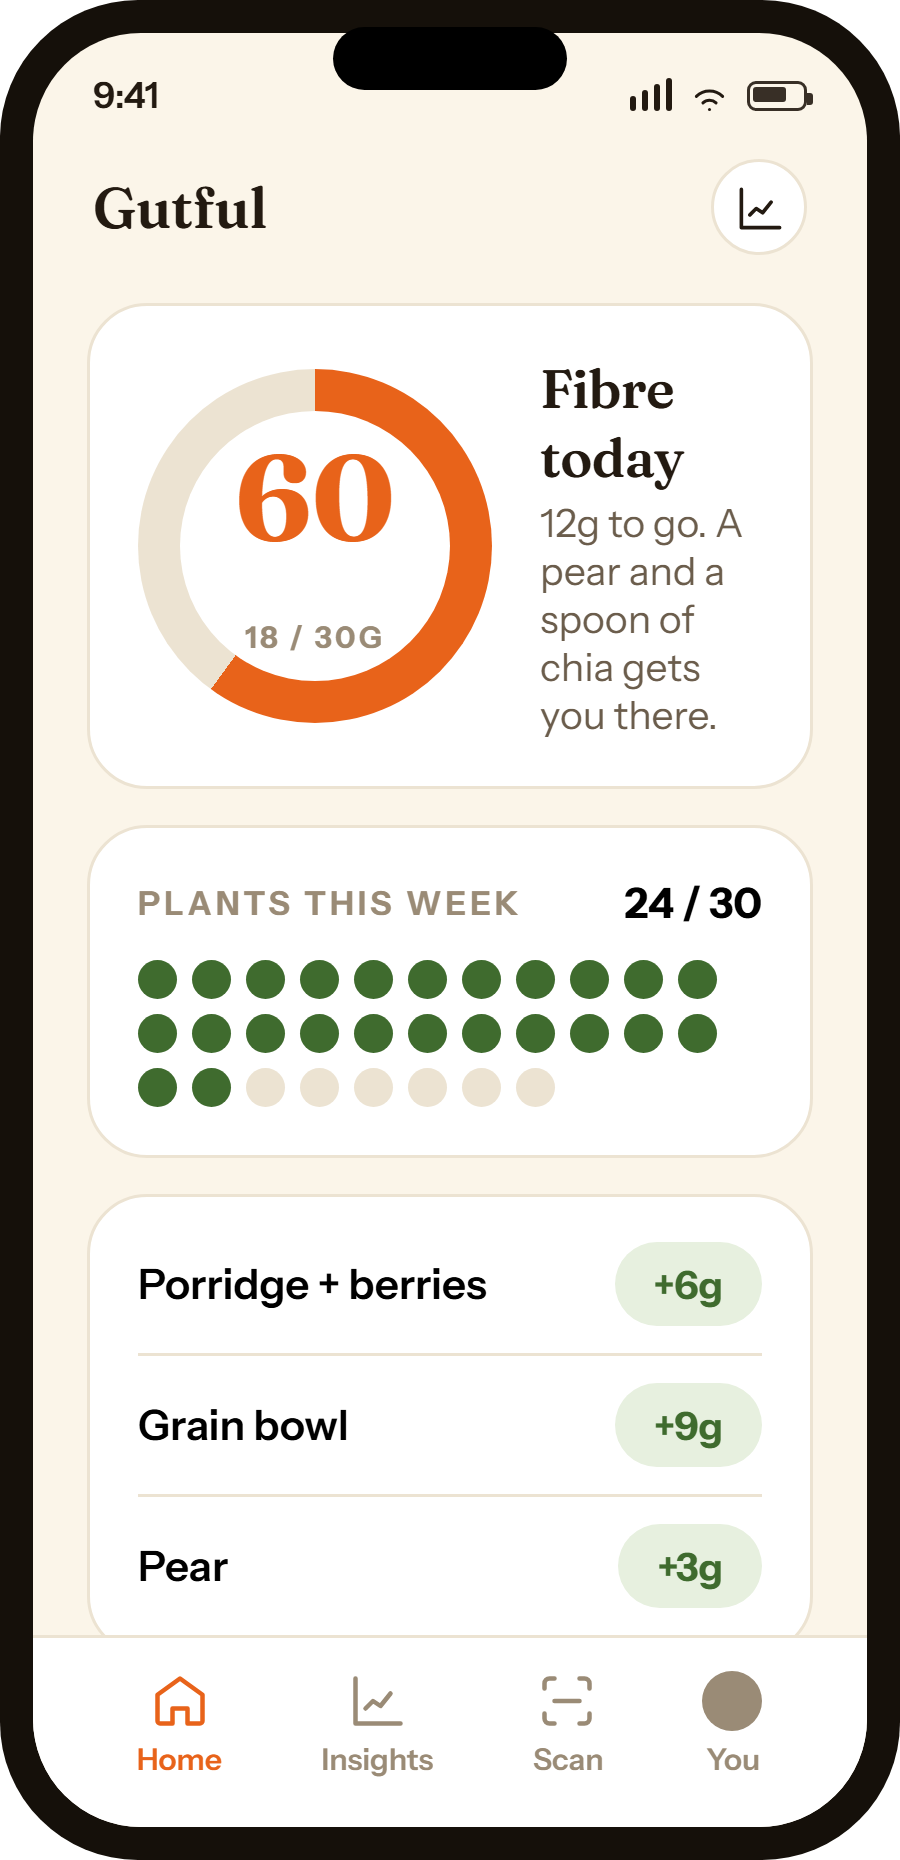
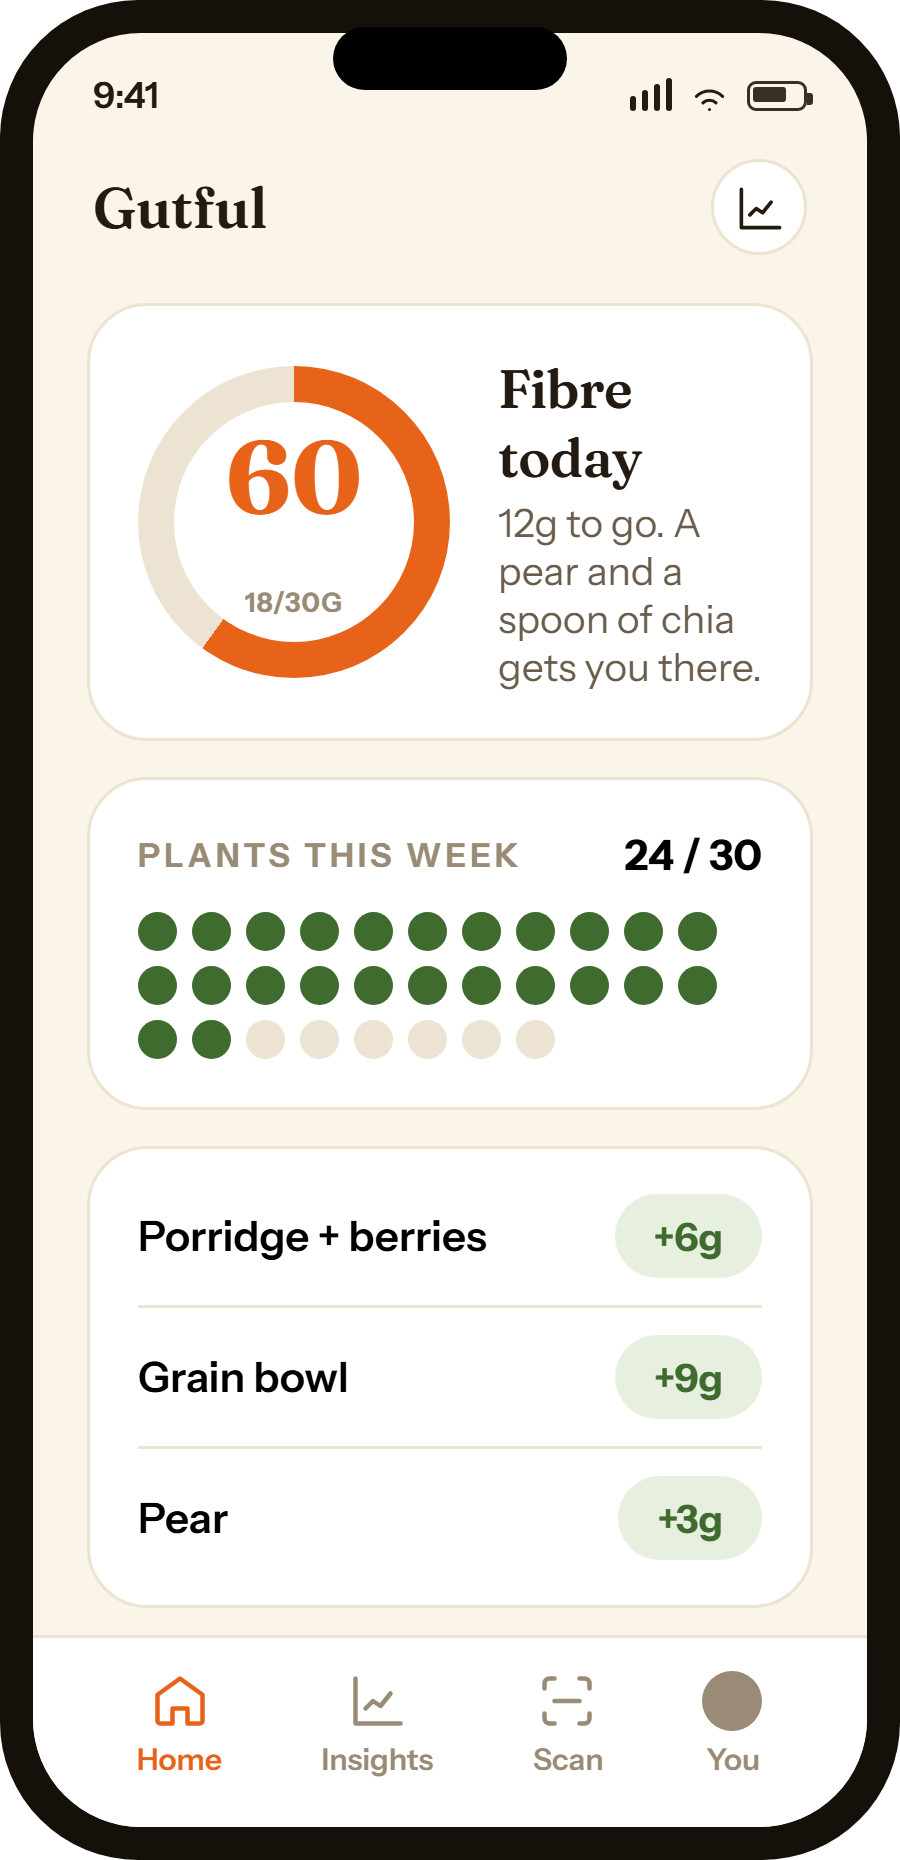
Add CAPI match signals (fbp/fbc) + dedup eventID on Lead

Changed region(s): [[0.1244, 0.1871, 0.8711, 0.8731], [0.1556, 0.6548, 0.56, 0.8731]]

diff --git a/app.js b/app.js
@@ -6,8 +6,7 @@ function qp(k){return new URLSearchParams(location.search).get(k)||"";}
 var concept=document.body.getAttribute('data-concept');var done=false;var SB=window.SUPABASE_URL,KEY=window.SUPABASE_ANON_KEY;
 // --- analytics: GA4 event + auto concept/angle on every event. No-ops if no IDs set.
 function track(name,params){var base={concept:concept,angle:qp('utm_content')||''};if(params)for(var k in params)base[k]=params[k];try{if(typeof gtag==='function')gtag('event',name,base);}catch(e){}}
-function fbqt(name,params,id){try{if(typeof fbq==='function')fbq('track',name,params||{},id?{eventID:id}:undefined);}catch(e){}}
-function getCookie(n){var m=document.cookie.match('(?:^|; )'+n.replace(/([.$?*|{}()\[\]\\\/+^])/g,'\\$1')+'=([^;]*)');return m?decodeURIComponent(m[1]):'';}
+function fbqt(name,params){try{if(typeof fbq==='function')fbq('track',name,params||{});}catch(e){}}
 function initAnalytics(){
   track('view_content');fbqt('ViewContent',{content_name:concept,content_category:qp('utm_content')||'organic'});
   document.querySelectorAll('.pill,.ratebtn,.sticky a').forEach(function(el){el.addEventListener('click',function(){track('cta_click',{location:(el.className||'').split(' ')[0]||'cta'});});});
@@ -44,10 +43,10 @@ var box=form.closest('[data-form]')||form.parentNode;var errEl=box.querySelector
 var inp=form.querySelector('input[type=email]');var email=(inp.value||'').trim();
 if(!/^[^@\s]+@[^@\s]+\.[^@\s]+$/.test(email)){if(errEl){errEl.textContent="That doesn't look like an email. Mind checking it?";errEl.classList.add('show');}return;}
 var rid=uuidv4();
-var row={id:rid,email:email,concept:concept,angle:qp('utm_content'),utm_source:qp('utm_source'),utm_medium:qp('utm_medium'),utm_campaign:qp('utm_campaign'),utm_content:qp('utm_content'),utm_term:qp('utm_term'),fbp:getCookie('_fbp'),fbc:getCookie('_fbc'),referrer:document.referrer||'',page:location.pathname};
+var row={id:rid,email:email,concept:concept,angle:qp('utm_content'),utm_source:qp('utm_source'),utm_medium:qp('utm_medium'),utm_campaign:qp('utm_campaign'),utm_content:qp('utm_content'),utm_term:qp('utm_term'),referrer:document.referrer||'',page:location.pathname};
 var btn=form.querySelector('button');var t=btn.textContent;btn.disabled=true;btn.textContent='…';
 fetch(SB+'/rest/v1/signups',{method:'POST',headers:{'apikey':KEY,'Authorization':'Bearer '+KEY,'Content-Type':'application/json','Prefer':'return=minimal'},body:JSON.stringify(row)})
-.then(function(r){if(!r.ok)throw 0;document.querySelectorAll('.signup').forEach(function(f){f.style.display='none';});document.querySelectorAll('.micro').forEach(function(m){m.style.display='none';});document.querySelectorAll('.thanks').forEach(function(tk){tk.classList.add('show');});if(!done){track('signup_completed');fbqt('Lead',{content_name:concept,content_category:qp('utm_content')||'organic'},rid);done=true;}openSurvey(rid);})
+.then(function(r){if(!r.ok)throw 0;document.querySelectorAll('.signup').forEach(function(f){f.style.display='none';});document.querySelectorAll('.micro').forEach(function(m){m.style.display='none';});document.querySelectorAll('.thanks').forEach(function(tk){tk.classList.add('show');});if(!done){track('signup_completed');fbqt('Lead',{content_name:concept,content_category:qp('utm_content')||'organic'});done=true;}openSurvey(rid);})
 .catch(function(){btn.disabled=false;btn.textContent=t;if(errEl){errEl.textContent="Something went wrong. Try again in a moment.";errEl.classList.add('show');}});});});
 var nav=document.querySelector('.nav');var sticky=document.querySelector('.sticky');var hero=document.querySelector('.hero');
 function onScroll(){var y=window.scrollY||document.documentElement.scrollTop;if(nav)nav.classList.toggle('scrolled',y>40);